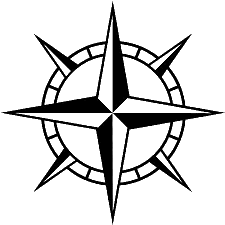
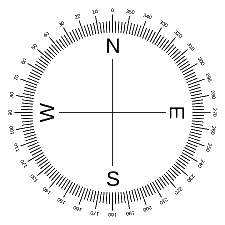
clock

diff --git a/css/style.css b/css/style.css
@@ -6,9 +6,9 @@
     display: flex;
     justify-content: center;
     align-items: center;
-    background: url(clock.png);
+    background: url(/img/rose.png);
     background-size: cover;
-    border: 4px solid #091921;
+    border: 4px solid #72bfe6;
     border-radius: 50%;
     box-shadow: 0 -15px 15px rgba(255, 255, 255, 0.05),
                 inset 0 -15px 15px rgba(255, 255, 255, 0.05),
@@ -16,7 +16,7 @@
                 inset 0 15px 15px rgba(0, 0, 0, 0.3);
 }
 
-.clock:before{
+/* .clock:before{
     content: " ";
     position: absolute;
     width: 15px;
@@ -24,26 +24,26 @@
     background: #fff;
     border-radius: 50%;
     z-index: 10000;
-}
+} */
 
-.clock .hour,
+/* .clock .hour,
 .clock .min,
 .clock .sec
 {
     position: absolute;    
-}
+} */
 
-.clock .hour, .hr
+/* .clock .hour, .hr
 {
     width: 130px;
     height: 130px;
-}
+} */
 
-.clock .min, .mn
+/* .clock .min, .mn
 {
     width: 140px;
     height: 140px;
-}
+} */
 
 .clock .sec, .sc
 {
@@ -51,7 +51,7 @@
     height: 130px;
 }
 
-.hr, .mn, .sc{
+.sc{
     display: flex;
     justify-content: center;
     /* align-items: center; */
@@ -59,7 +59,7 @@
     border-radius: 50%;
 }
 
-.hr:before{
+/* .hr:before{
     content: " ";
     position: absolute;
     width: 8px;
@@ -67,9 +67,9 @@
     background: #ff105e;
     z-index: 10;
     border-radius: 6px 6px 0 0;
-}
+} */
 
-.mn:before{
+/* .mn:before{
     content: " ";
     position: absolute;
     width: 4px;
@@ -77,7 +77,7 @@
     background: #fff;
     z-index: 11;
     border-radius: 6px 6px 0 0;
-}
+} */
 
 .sc:before{
     content: " ";

diff --git a/index.html b/index.html
@@ -48,12 +48,12 @@
                 <div class="col border rounded border-primary">
 	
                     <div class="clock">
-                        <div class="hour">
+                        <!-- <div class="hour">
                             <div class="hr" id="hr"></div>
                         </div>
                         <div class="min">
                             <div class="mn" id="mn"></div>
-                        </div>
+                        </div> -->
                         <div class="sec">
                             <div class="sc" id="sc"></div>
                         </div>
@@ -79,7 +79,7 @@
     <script src="js/app.js"></script>
     <script src="js/jQuery.js"></script>
     <script src="js/bootstrap.min.js"></script>
-    <script src="js/clock.js"></script>
+    <!-- <script src="js/clock.js"></script> -->
 
 </body>
 

diff --git a/js/app.js b/js/app.js
@@ -72,7 +72,7 @@ function createWeather() {
     };
 
     //fok = "rotateZ(" + weatherObj.current.wind_deg + "deg" + ")";
-    //document.querySelector(".compass").style.transform = fok;
+    document.querySelector(".sc").style.transform = "rotateZ(" + weatherObj.current.wind_deg + "deg" + ")";
 
     document.querySelector("h1").innerHTML = getTimeFromEpox(weatherObj.current.dt) + " " + latLon;
     document.querySelector("h4").innerHTML = "A következő órában várható eső: " + rain.toFixed(1) + " mm/h";
